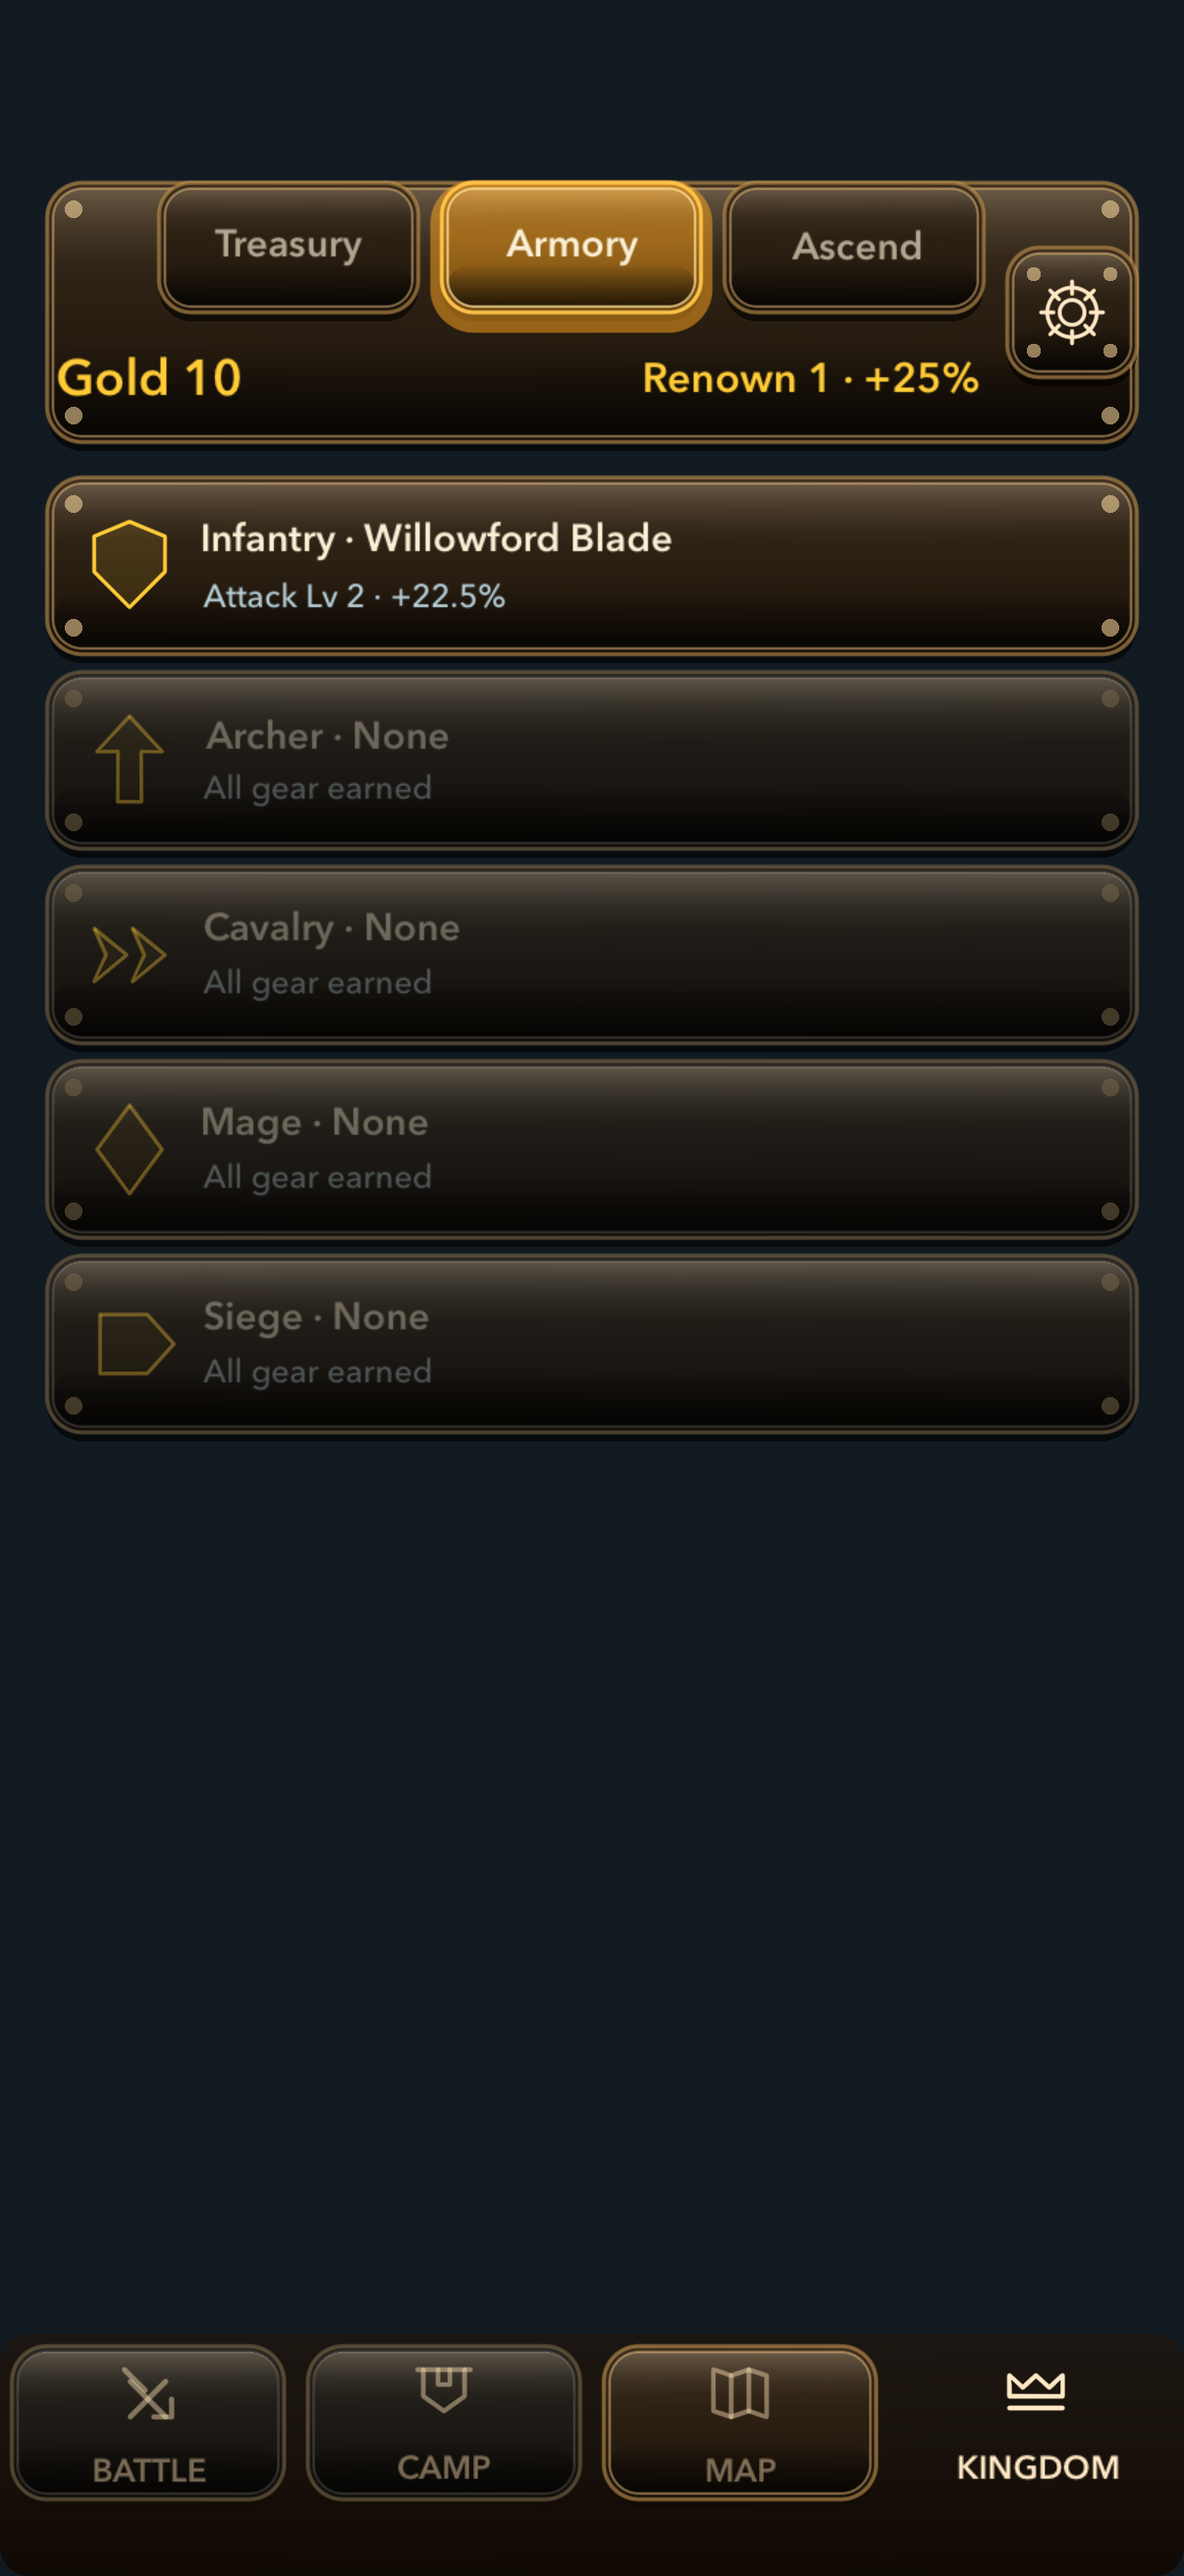
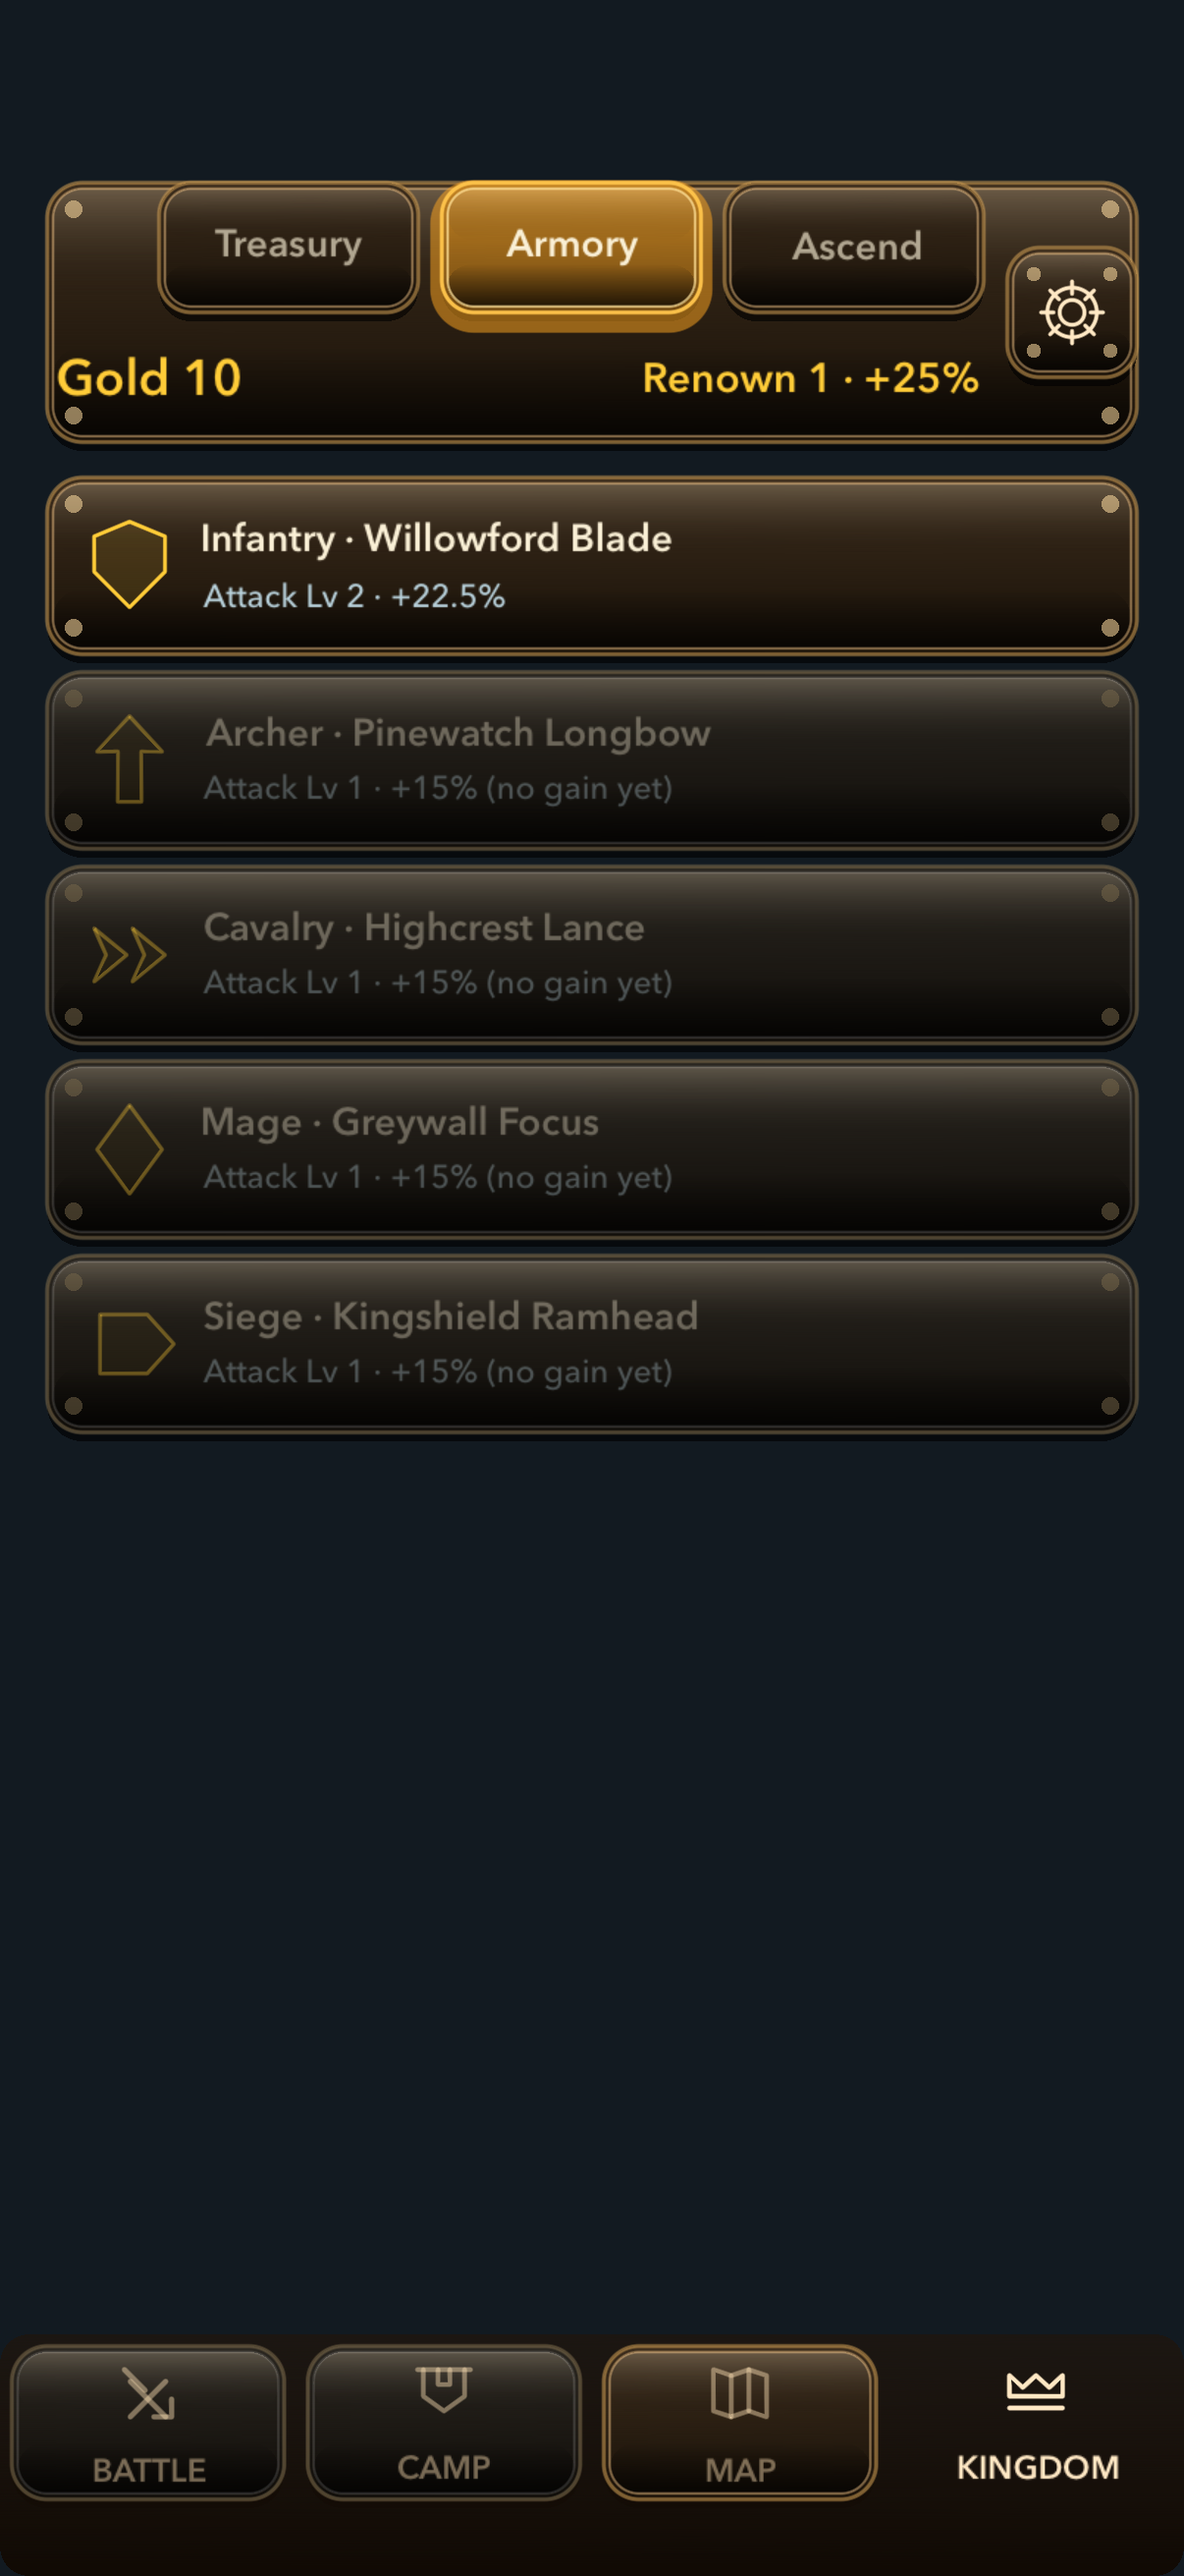
fix(HPA-672): align Ascension UI test with auto-equipped fixture state
The map-country-complete fixture was updated in 0d4f98da to auto-equip
each type's first drop, matching a real first completion. Update
testHPA672AscensionFlowEvidence to assert the already-equipped
'Infantry · Willowford Blade' and its leveled Lv 2 effect in the Armory
instead of expecting an unequipped slot, and refresh the iPhone 17
evidence capture.

diff --git a/PyxisUITests/PyxisUITests.swift b/PyxisUITests/PyxisUITests.swift
@@ -375,9 +375,8 @@ final class PyxisUITests: XCTestCase {
 
         // Map → Kingdom: the post-ascension bottom header reads the Renown
         // summary (rendered only while ascensionCount > 0), and the Armory
-        // infantry row reads its effective Lv 2 effect line once equipped —
-        // the seeded fixture owns every item but equips nothing, and the
-        // whole-row tap cycles None → owned items.
+        // infantry row reflects its leveled Lv 2 blade already equipped —
+        // matching a real run where the first-earned drop was auto-equipped.
         tap(app, at: kingdomTabPoint(mapTabGeometry: frame))
         let renown = app.descendants(matching: .any)
             .matching(NSPredicate(format: "label == %@", "Renown 1 · +25%"))
@@ -387,20 +386,19 @@ final class PyxisUITests: XCTestCase {
             "The Renown header is missing after ascension."
         )
         tapCenter(of: topmostElement(labeled: "Armory", in: app), in: app)
-        let unequippedRow = app.descendants(matching: .any)
-            .matching(NSPredicate(format: "label == %@", "Infantry · None"))
+        let equippedRow = app.descendants(matching: .any)
+            .matching(NSPredicate(format: "label == %@", "Infantry · Willowford Blade"))
             .firstMatch
         XCTAssertTrue(
-            unequippedRow.waitForExistence(timeout: 5),
+            equippedRow.waitForExistence(timeout: 5),
             "The Armory did not present the City 1 infantry row."
         )
-        tapCenter(of: unequippedRow, in: app)
         let infantryLv2 = app.descendants(matching: .any)
             .matching(NSPredicate(format: "label BEGINSWITH %@", "Attack Lv 2"))
             .firstMatch
         XCTAssertTrue(
             infantryLv2.waitForExistence(timeout: 5),
-            "Equipping the leveled City 1 blade did not read its Lv 2 effect."
+            "The leveled City 1 blade did not read its Lv 2 effect."
         )
         add(screenshotAttachment(for: app, name: "hpa672-05-kingdom-renown-armory-lv2"))
 
